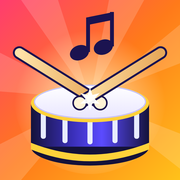
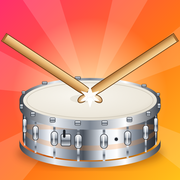
Ícone com caixa realista
Claude-Session: https://claude.ai/code/session_01KeUSFu1PEEB3h9R7NgeFzA

diff --git a/index.html b/index.html
@@ -12,8 +12,8 @@
 <meta name="theme-color" content="#f8f9fb" media="(prefers-color-scheme: light)">
 <meta name="theme-color" content="#1b1e25" media="(prefers-color-scheme: dark)">
 <link rel="manifest" href="manifest.webmanifest">
-<link rel="icon" type="image/png" sizes="192x192" href="icon-192.png?v=2">
-<link rel="apple-touch-icon" href="apple-touch-icon.png?v=2">
+<link rel="icon" type="image/png" sizes="192x192" href="icon-192.png?v=3">
+<link rel="apple-touch-icon" href="apple-touch-icon.png?v=3">
 <style>
 *, *::before, *::after { box-sizing: border-box; }
 html { color-scheme: light; padding-top: env(safe-area-inset-top, 0px); padding-bottom: env(safe-area-inset-bottom, 0px); background: var(--panel); -webkit-text-size-adjust: 100%; }

diff --git a/sw.js b/sw.js
@@ -1,6 +1,6 @@
 // Bateria Score — funciona sem internet depois da primeira abertura.
 // Ao publicar uma versão nova, mude o número abaixo.
-const CACHE = 'bateria-score-v18';
+const CACHE = 'bateria-score-v19';
 const FILES = ['./index.html', './manifest.json', './lame.min.js',
   './kit-estudio.json', './kit-estudio.mp3', './kit-perc.json', './kit-perc.mp3',
   './icon-192.png', './icon-512.png', './apple-touch-icon.png'];
